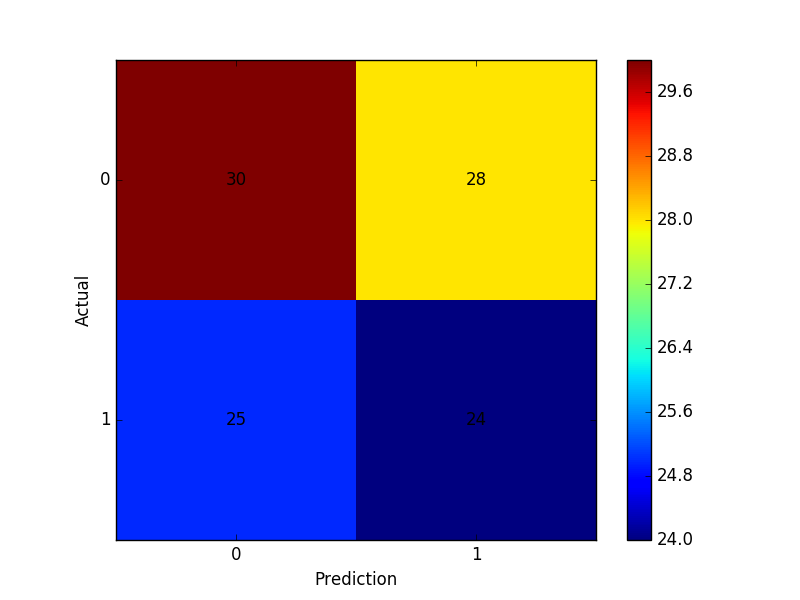
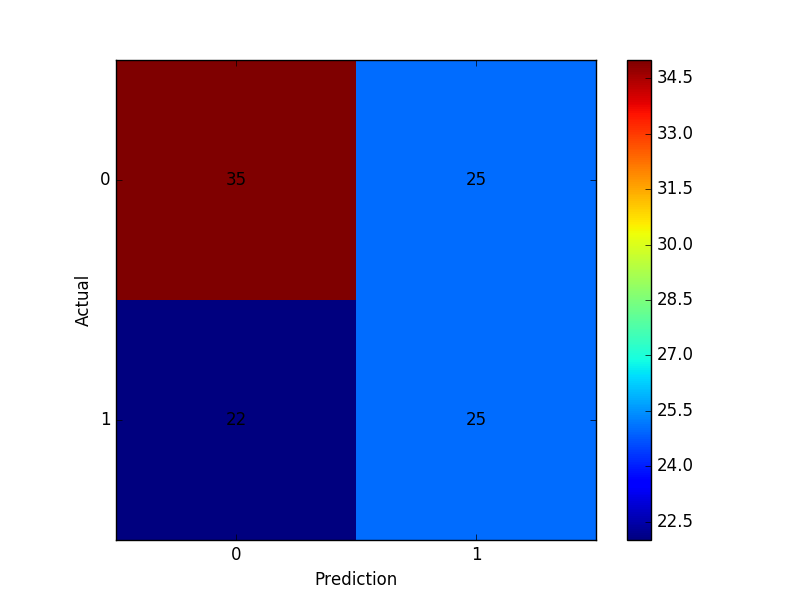
NN is now working

diff --git a/constants.py b/constants.py
@@ -146,7 +146,7 @@ CNN_BETA_2 = 0.2
 
 # Phenotype Neural Network (NN)
 # Must always end with a 1, to allow for logistic classification
-NN_HIDDEN_UNITS = [32, 64, 64, 32, 1]
+NN_HIDDEN_UNITS = [32, 32, 32, 32, 16, 16, 16, 8, 1]
 
 # Layer to be fed into Multi-Modal NN, 1-indexed
 # Ex.
@@ -154,11 +154,11 @@ NN_HIDDEN_UNITS = [32, 64, 64, 32, 1]
 # 	-> the layer with hidden nodes 32 (the 4th layer) will be fed into MMNN
 NN_MMLAYER = 4
 
-NN_REG_CONSTANTS_WEIGHTS = [0.6]*len(NN_HIDDEN_UNITS)
-NN_REG_CONSTANTS_BIAS = [0.9]*CNN_NUM_LAYERS
+NN_REG_CONSTANTS_WEIGHTS =[0.6]*len(NN_HIDDEN_UNITS)
+NN_REG_CONSTANTS_BIAS = [0.9]*len(NN_HIDDEN_UNITS)
 
-NN_LEARNING_RATE = 0.01
-NN_REG_ON = True
+NN_LEARNING_RATE = 0.001
+NN_REG_ON = False
 NN_REG_OP = 'l2'
 
 # apply batch norm or not

diff --git a/run.py b/run.py
@@ -324,7 +324,7 @@ def run_model(train, model, binary_filelist, run_all, batch_size, max_steps, ove
             # print("Current predicted labels are: " + str(layer_outputs['pred'].eval()))
 
             # Checkpoint model at each 100 iterations
-            should_save = i != 0 and i % 100 == 0 or (i+1) == max_steps
+            should_save = i != 0 and i % 1000 == 0 or (i+1) == max_steps
             if should_save and train:
                 checkpoint_path = os.path.join(FLAGS.checkpoint_dir, 'model.ckpt')
                 saver.save(sess, checkpoint_path, global_step=i)

diff --git a/models.py b/models.py
@@ -51,7 +51,7 @@ class NeuralNetwork(CNNLayers):
         return layersOut, weights
 
     def train(self, nn_reg_on, nn_reg_op):
-        cost = self.cost_function(self.layersOut['pred'], self.output, op='softmax')
+        cost = self.cost_function(self.layersOut['pred'], self.output, op='sigmoid')
         cumCost = cost
         numEntries = len(self.weights)
 
@@ -464,4 +464,3 @@ class ResidualNet(CNNLayers):
 
         layersOut['input'] = self.input_image
         layersOut['output'] = self.output
-
